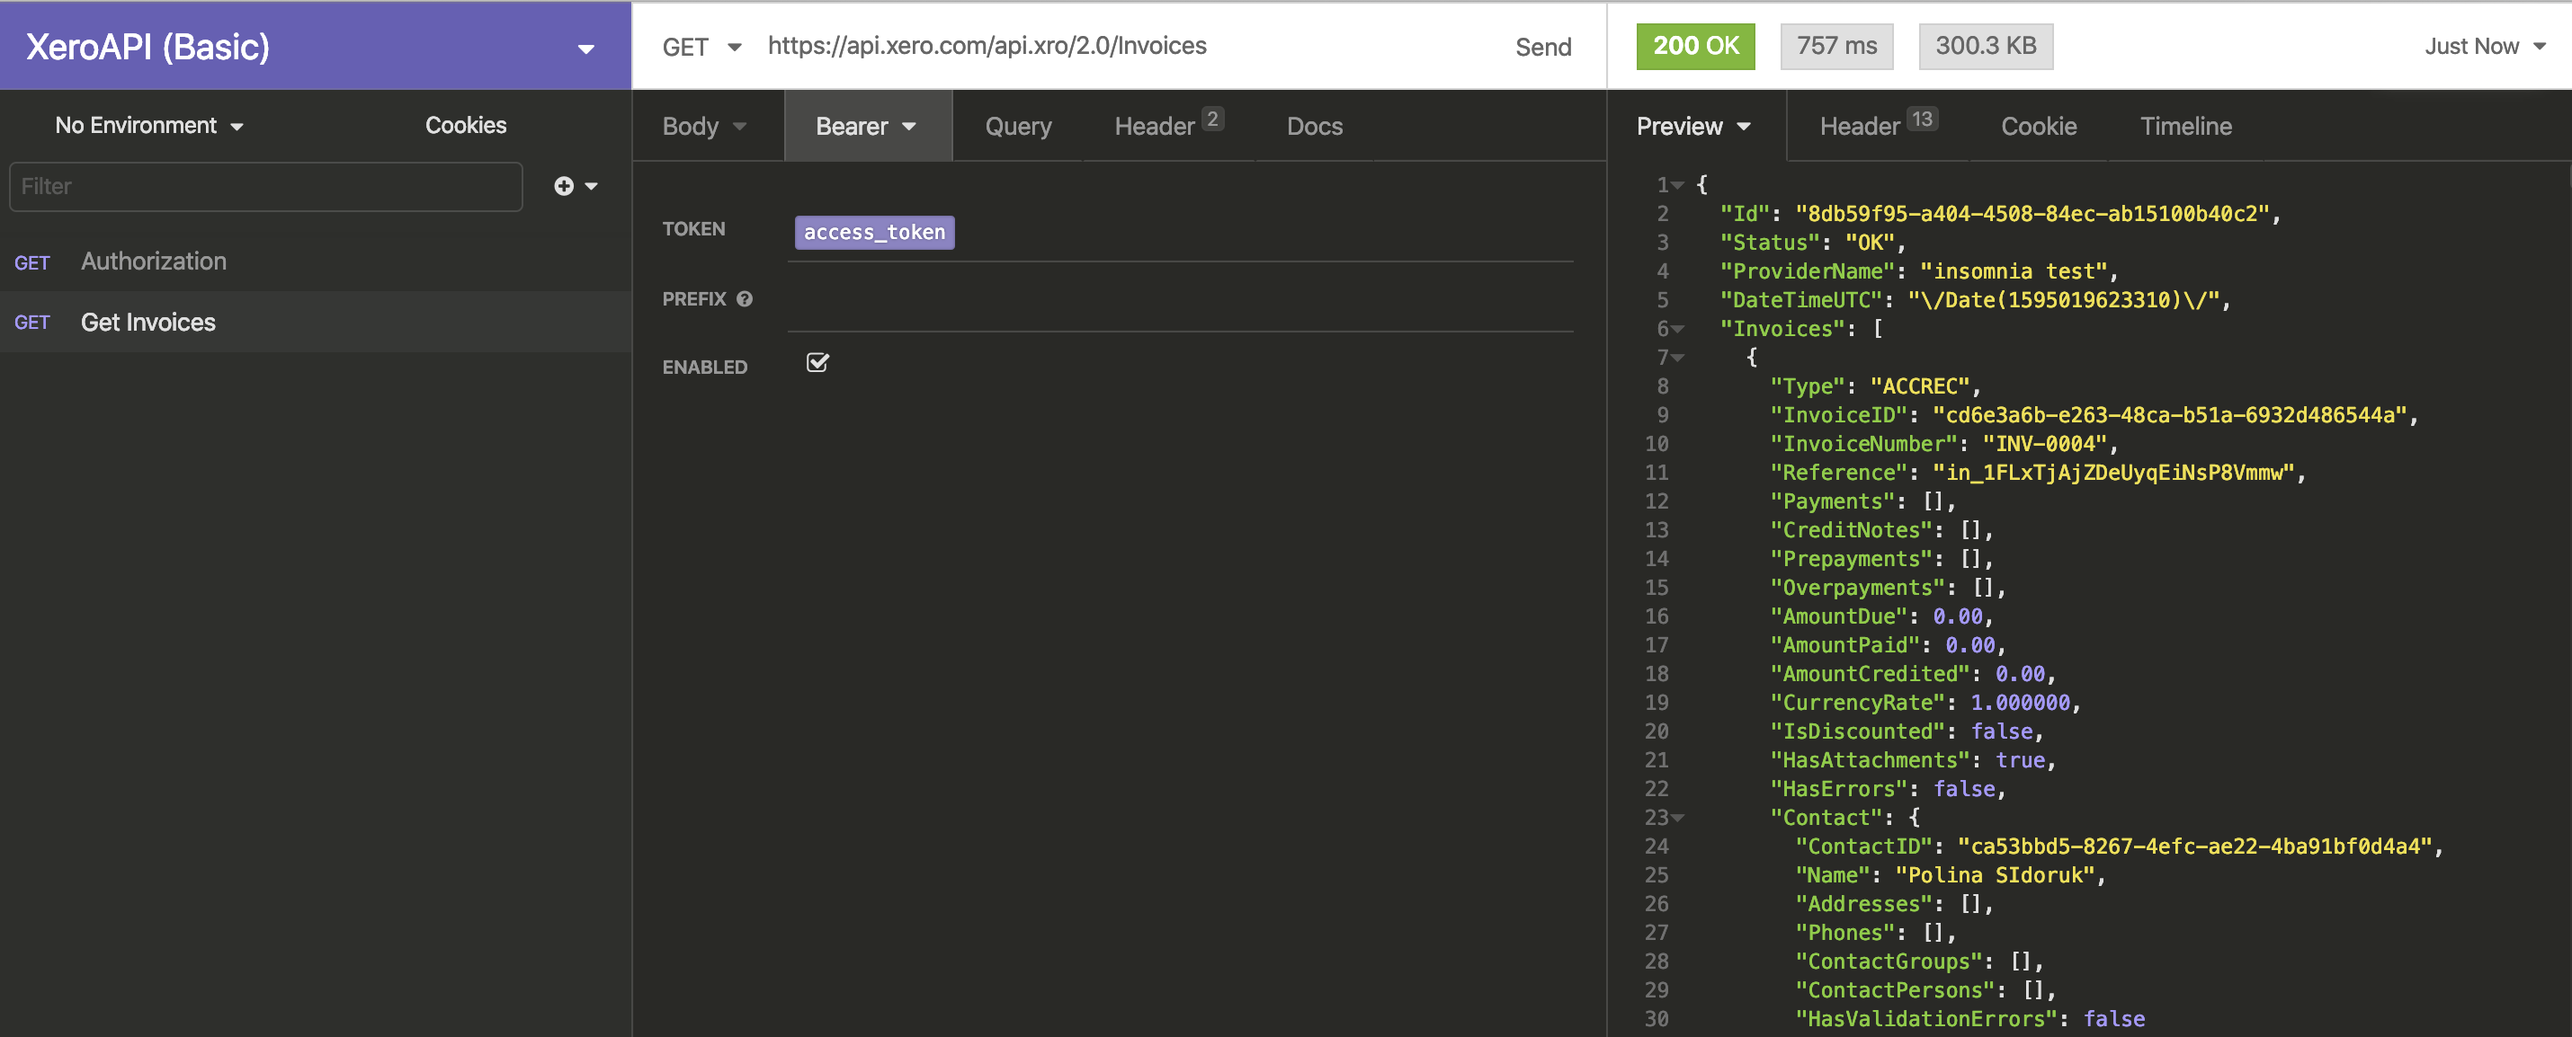
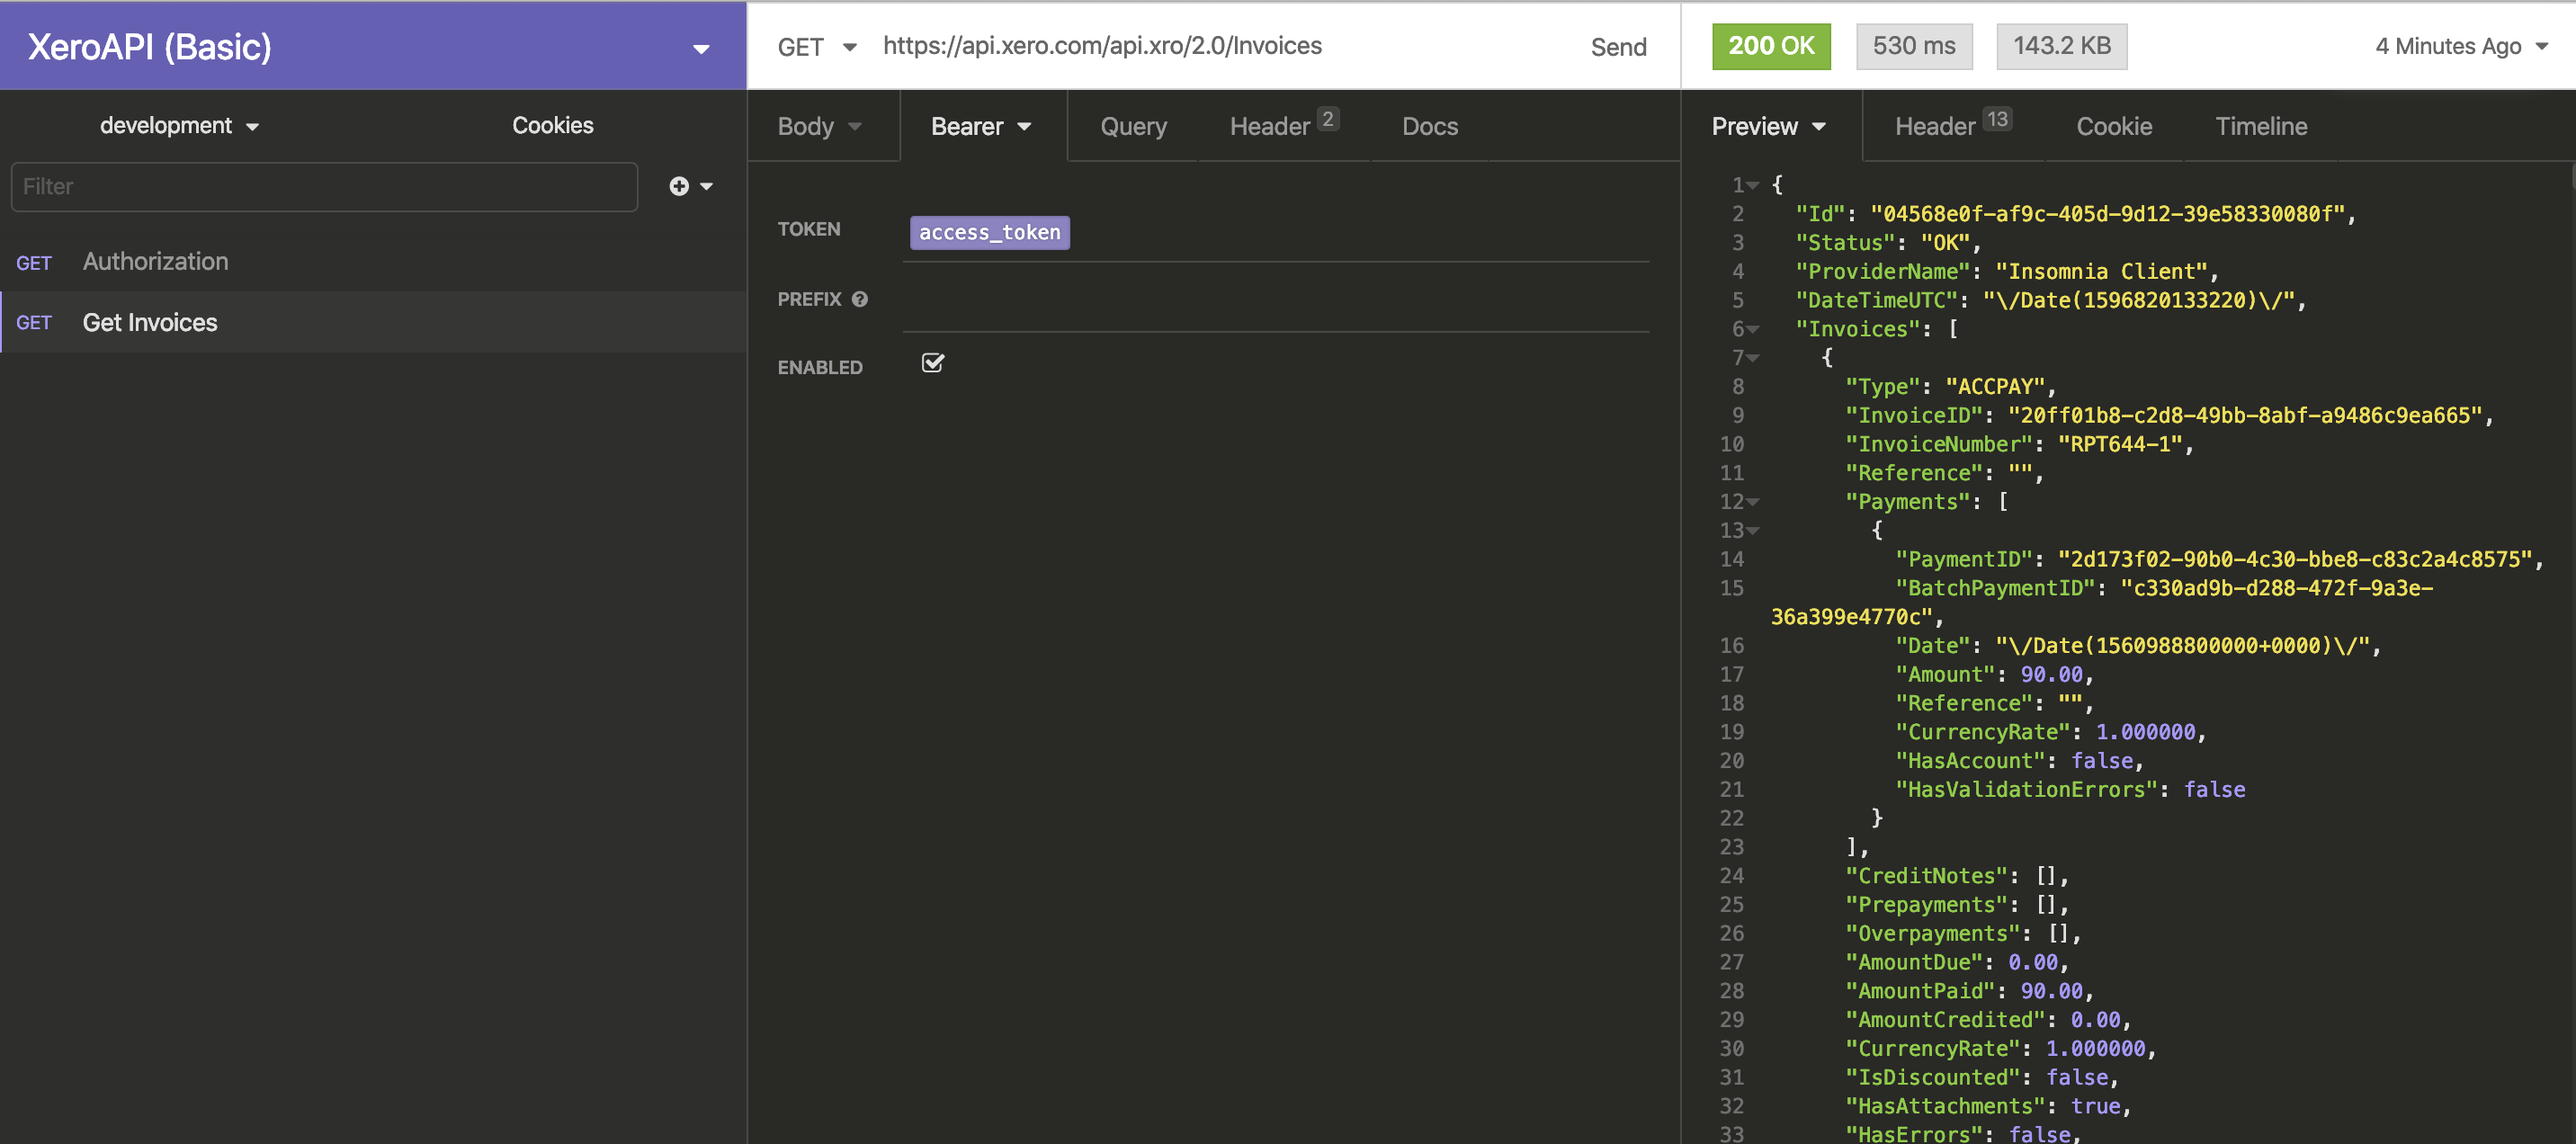
replace screenshots and update readme

diff --git a/README.md b/README.md
@@ -15,9 +15,9 @@ Visit Insomnia and download the desktop client.
 ### 2. Create an API app
 > https://developer.xero.com/myapps
 
-In the Xero developer portal create an API app. If you haven't signed up for a xero account you can [signup here](https://www.xero.com/signup/api/).
+In the Xero developer portal create an API app. If you haven't signed up for a xero developer account you can [do that here](https://www.xero.com/signup/api/).
 
-![paste in environment keys](images/new-app.png)
+![create new api app](images/new-app.png)
 ----
 
 ## 3. Pick a collection to import
@@ -47,6 +47,7 @@ At a minimun you probably want `"openid profile email offline_access accounting.
 
 
 Finally, copy those 3 items into this file in your desktop client.
+
 ![paste in environment keys](images/env.png)
 
 ---
@@ -59,11 +60,15 @@ Click 'Fetch Tokens' which will prompt a Xero login screen.
 
 Once you return it should populate the access & refresh token.
 
-You can now click `Send` which will hit the `/connections` endpoint and return your active API connections. Chose a `tenant_id`.
+You can now add an actual request to the Authorize OAuth2 panel to hit the /connections route via POST which will use the access_token to return your active connections.
+
+Once the /connection route is setup, click `Send`, this will return your active API connections. Chose a `tenantId` to populate in your environment file's empty `tenant_id` value.
 
 ![xero-login](images/post-auth.png)
 
 Then paste both the `tenant_id` & the `access_token` into the environment file.
+
+![access-token-paste](images/access-token.png)
 
 
 ---
